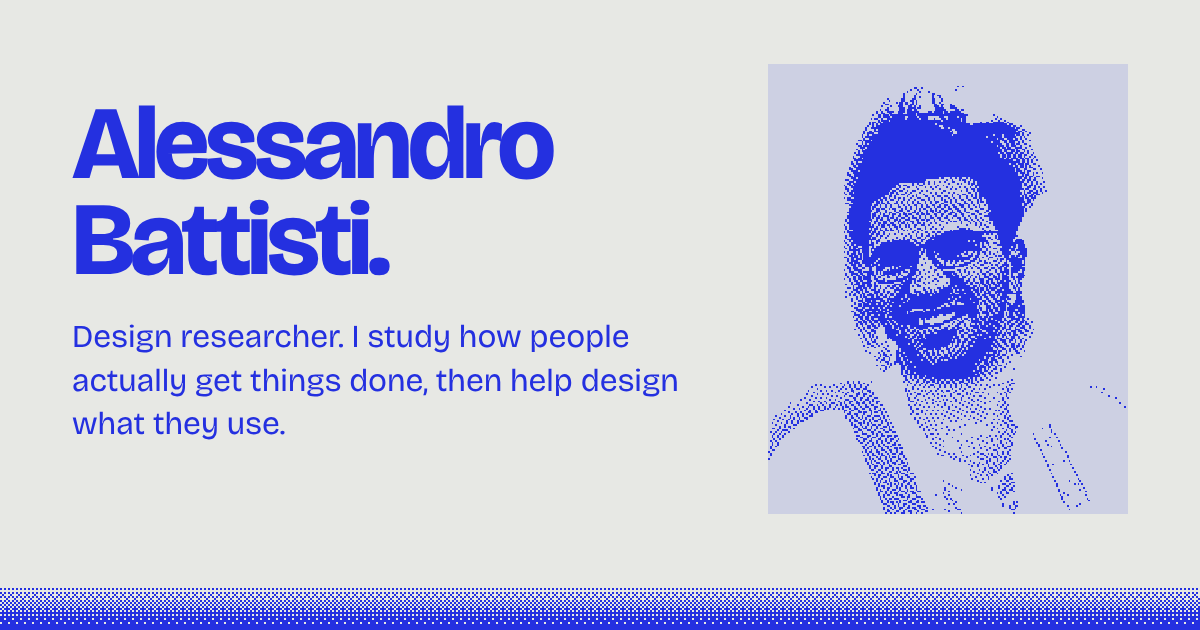
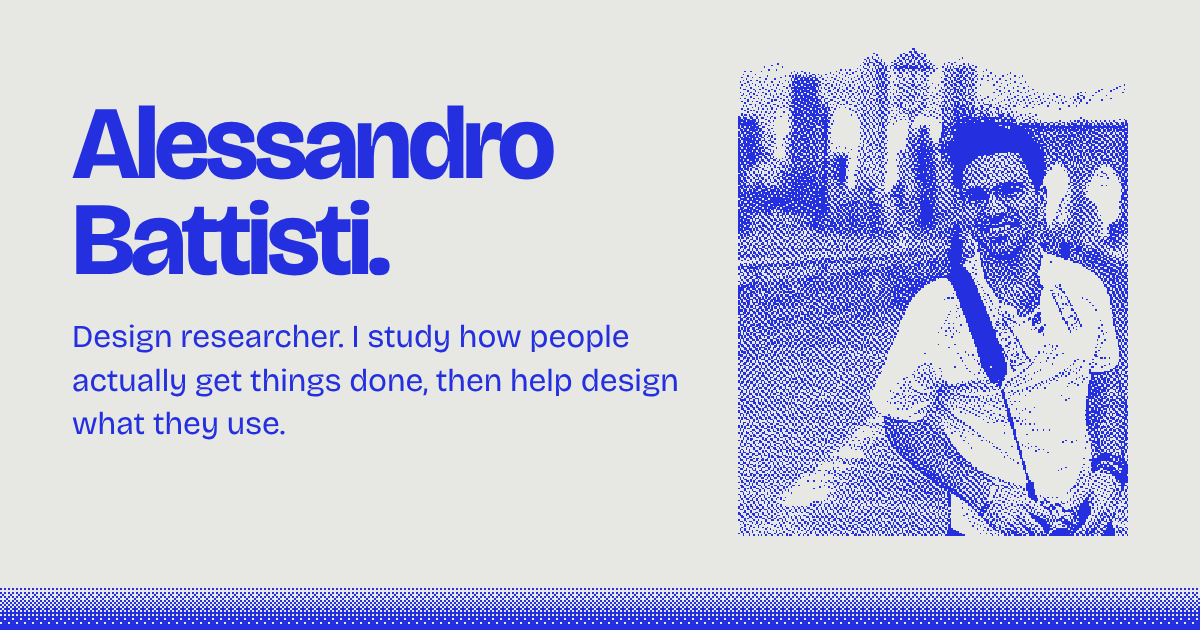
Bring back the wide Brooklyn Bridge portrait from the first exploration
Claude-Session: https://claude.ai/code/session_01892y2c3qwRtoSrETd8887Z

Changed region(s): [[0.6167, 0.0905, 0.9558, 0.8746]]

diff --git a/src/personal.css b/src/personal.css
@@ -16,8 +16,8 @@
 .ab {
   --ab-bg: #E7E8E4;     /* cool grey page */
   --ab-ink: #2430E0;    /* the only color: text, pixels, lines. 6.9:1 on bg */
-  --ab-tint: #CDD0E3;   /* portrait card and hairlines only, never text */
-  --ab-px: 2px;         /* the one pixel size: portrait, bands, icons, trail */
+  --ab-tint: #CDD0E3;   /* hairlines only, never text */
+  --ab-px: 2px;         /* the pixel size: bands, icons, trail, cursors */
   --ab-font: "Bricolage Grotesque", "Helvetica Neue", Arial, sans-serif;
 
   position: relative;
@@ -82,8 +82,9 @@
 .ab .ab-hello { margin-top: 32px; display: flex; flex-wrap: wrap; align-items: baseline; gap: 8px 24px; font-size: 1rem; }
 .ab .ab-hello-mail { font-size: clamp(1.15rem, 1.9vw, 1.4rem); font-weight: 650; }
 
-/* Portrait: 200 x 250 dithered image, shown at 2px per pixel */
-.ab .ab-portrait { justify-self: center; width: 100%; max-width: 400px; background: var(--ab-tint); }
+/* Portrait: 260 x 325 dithered photo, light pixels show the page through.
+   Shown at 1.5px per pixel (3 device pixels on retina screens). */
+.ab .ab-portrait { justify-self: center; width: 100%; max-width: 390px; }
 .ab-portrait img { width: 100%; image-rendering: pixelated; }
 
 /* Divider: a 1-bit dithered band, 24 image pixels tall at 2px each */

diff --git a/src/pages/Home.tsx b/src/pages/Home.tsx
@@ -31,7 +31,7 @@ const Home: React.FC = () => {
             </p>
           </div>
           <figure className="ab-portrait">
-            <img src={portrait} width={200} height={250} alt="Alessandro, in blue pixels" />
+            <img src={portrait} width={260} height={325} alt="Alessandro on the Brooklyn Bridge, in blue pixels" />
           </figure>
         </div>
       </section>

diff --git a/DESIGN.md b/DESIGN.md
@@ -6,18 +6,22 @@ One page, one color, one pixel size. Code: `src/personal.css` (scoped under `.ab
 ## Tokens
 - `--ab-bg #E7E8E4` cool grey page
 - `--ab-ink #2430E0` the only color: text, links, pixels. 6.9:1 on the page
-- `--ab-tint #CDD0E3` portrait card and hairlines only, never text
+- `--ab-tint #CDD0E3` hairlines only, never text
 - `--ab-px 2px` the pixel size for everything drawn
 - Type: Bricolage Grotesque (self-hosted, `src/fonts`). Name 750, company names 650, body 400 to 450, labels 650 at 14px
 
 ## The 2px rule
 Every graphic is 1-bit and sits on the same 2px grid:
-- Portrait: 200 x 250 Atkinson dither, shown at 400 x 500 max, `image-rendering: pixelated`
 - Bands: `src/img/band.png` (480 x 24) shown at 960 x 48. Bands are the only dividers between sections
 - Icons: 14 x 12 grids in `PixelIcon.tsx`, shown at 28 x 24
 - Trail: 2px squares
 - Cursors: pixel arrow and crosshair drawn at 2px
-- The one exception is a sprite shown big as a hero (Mango on the 404), which must still be a whole multiple of 2 (12px now)
+- Exceptions: the portrait (below), and a sprite shown big as a hero (Mango on the 404), which must still be a whole multiple of 2 (12px now)
+
+## Portrait
+- The Brooklyn Bridge photo, wide crop with the skyline, 260 x 325 Atkinson dither, ink pixels on transparent so the page grey shows through
+- Shown at up to 390px wide (1.5px per image pixel, 3 device pixels on retina), `image-rendering: pixelated`
+- A tighter head-and-shoulders crop at 200 x 250 was tried and rejected: it read as odd
 
 ## Behavior
 - Cursor trail dissolves pixel by pixel over about 3.5 seconds, at most 1,500 pixels on screen
@@ -33,6 +37,5 @@ Every graphic is 1-bit and sits on the same 2px grid:
 - Use em dashes in copy
 
 ## Making new pixel images
-Portrait script lives with the design comps, not in the repo. Recipe: grayscale, crop to 4:5 head and shoulders,
-levels (0.12 to 0.84), fade background to white, lift dark clothing to about 50% grey so the face is the darkest
-area, resize to 200 x 250, Atkinson dither, ink pixels on transparent. Use the same recipe for the Mango photo.
+Recipe: grayscale, crop to 4:5, autocontrast, resize, Atkinson dither, ink pixels on transparent.
+Keep the background in the shot. Use the same recipe for the Mango photo.
